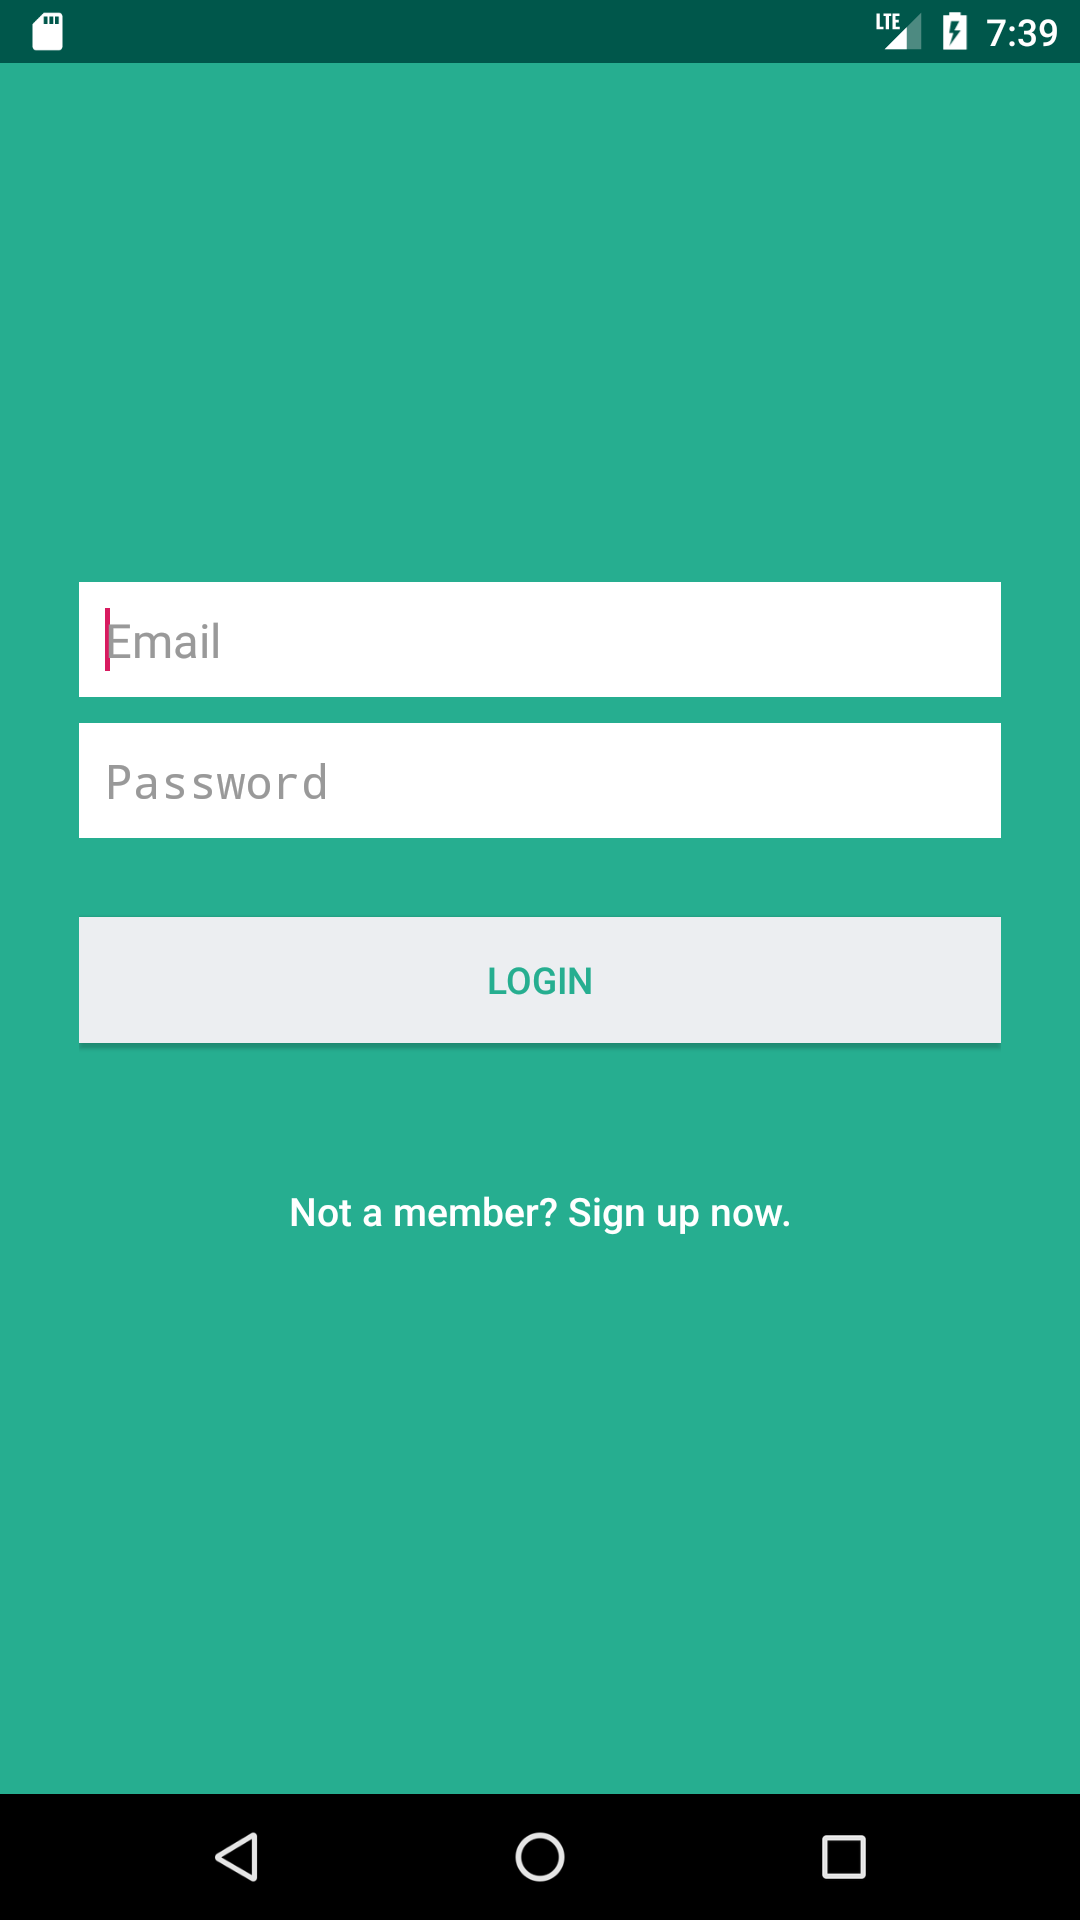
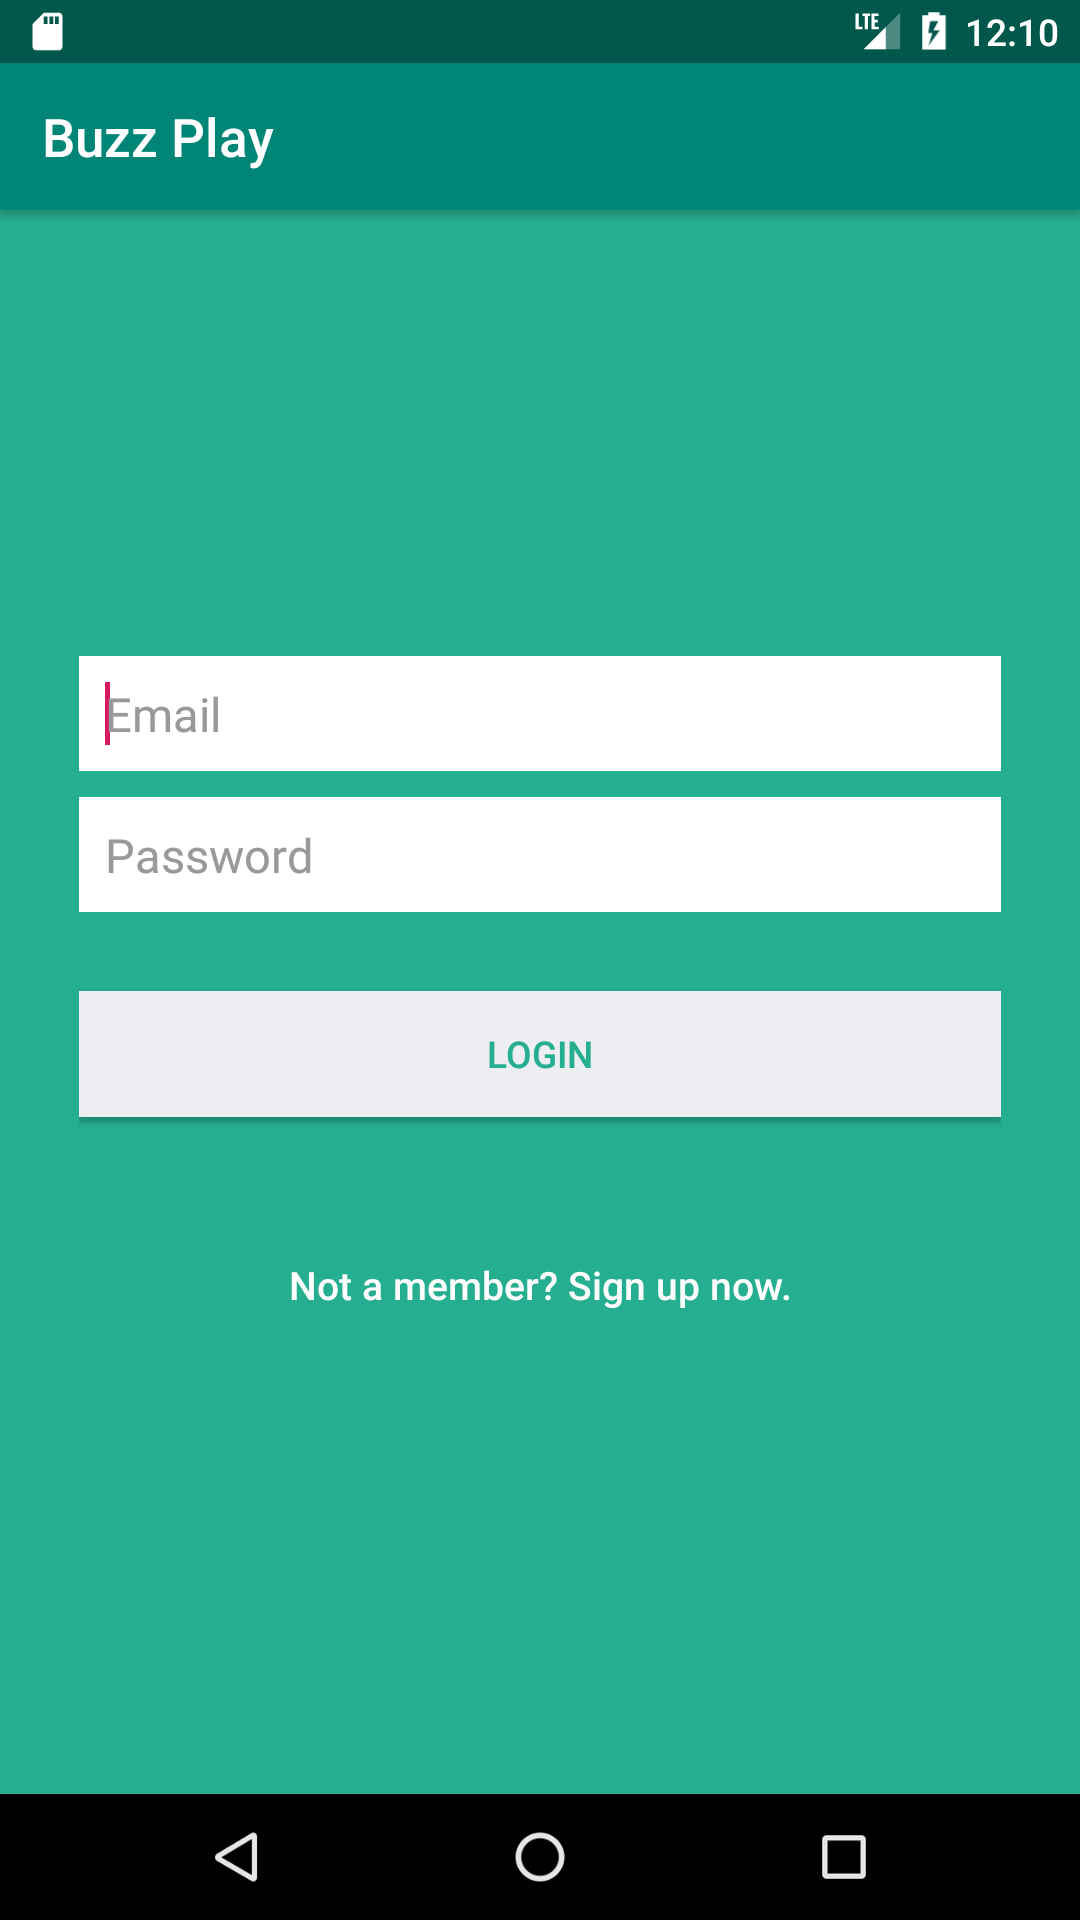
added app bar

Changed region(s): [[0.0611, 0.2812, 0.9472, 0.5938], [0.0, 0.0, 1.0, 0.125], [0.275, 0.625, 0.7333, 0.6875]]

diff --git a/app/src/main/java/buzzplay/music/claude/buzzplay/loginandregistration/activity/RegisterActivity.java b/app/src/main/java/buzzplay/music/claude/buzzplay/loginandregistration/activity/RegisterActivity.java
@@ -4,6 +4,7 @@ import android.app.Activity;
 import android.app.ProgressDialog;
 import android.content.Intent;
 import android.os.Bundle;
+import android.support.v7.app.AppCompatActivity;
 import android.util.Log;
 import android.view.View;
 import android.widget.Button;
@@ -27,7 +28,7 @@ import buzzplay.music.claude.buzzplay.loginandregistration.app.AppController;
 import buzzplay.music.claude.buzzplay.loginandregistration.helper.SQLiteHandler;
 import buzzplay.music.claude.buzzplay.loginandregistration.helper.SessionManager;
 
-public class RegisterActivity extends Activity {
+public class RegisterActivity extends AppCompatActivity {
     private static final String TAG = RegisterActivity.class.getSimpleName();
     private Button btnRegister;
     private Button btnLinkToLogin;

diff --git a/app/src/main/java/buzzplay/music/claude/buzzplay/loginandregistration/activity/LoginActivity.java b/app/src/main/java/buzzplay/music/claude/buzzplay/loginandregistration/activity/LoginActivity.java
@@ -5,6 +5,7 @@ import android.app.Activity;
 import android.app.ProgressDialog;
 import android.content.Intent;
 import android.os.Bundle;
+import android.support.v7.app.AppCompatActivity;
 import android.util.Log;
 import android.view.View;
 import android.widget.Button;
@@ -28,7 +29,7 @@ import buzzplay.music.claude.buzzplay.loginandregistration.app.AppController;
 import buzzplay.music.claude.buzzplay.loginandregistration.helper.SQLiteHandler;
 import buzzplay.music.claude.buzzplay.loginandregistration.helper.SessionManager;
 
-public class LoginActivity extends Activity {
+public class LoginActivity extends AppCompatActivity {
     private static final String TAG = RegisterActivity.class.getSimpleName();
     private Button btnLogin;
     private Button btnLinkToRegister;

diff --git a/app/src/main/java/buzzplay/music/claude/buzzplay/loginandregistration/activity/MainActivity.java b/app/src/main/java/buzzplay/music/claude/buzzplay/loginandregistration/activity/MainActivity.java
@@ -3,6 +3,7 @@ package buzzplay.music.claude.buzzplay.loginandregistration.activity;
 import android.app.Activity;
 import android.content.Intent;
 import android.os.Bundle;
+import android.support.v7.app.AppCompatActivity;
 import android.view.View;
 import android.widget.Button;
 import android.widget.TextView;
@@ -12,7 +13,7 @@ import java.util.HashMap;
 import buzzplay.music.claude.buzzplay.R;
 import buzzplay.music.claude.buzzplay.loginandregistration.helper.SQLiteHandler;
 import buzzplay.music.claude.buzzplay.loginandregistration.helper.SessionManager;
-public class MainActivity extends Activity {
+public class MainActivity extends AppCompatActivity {
 
 	private TextView txtName;
 	private TextView txtEmail;
